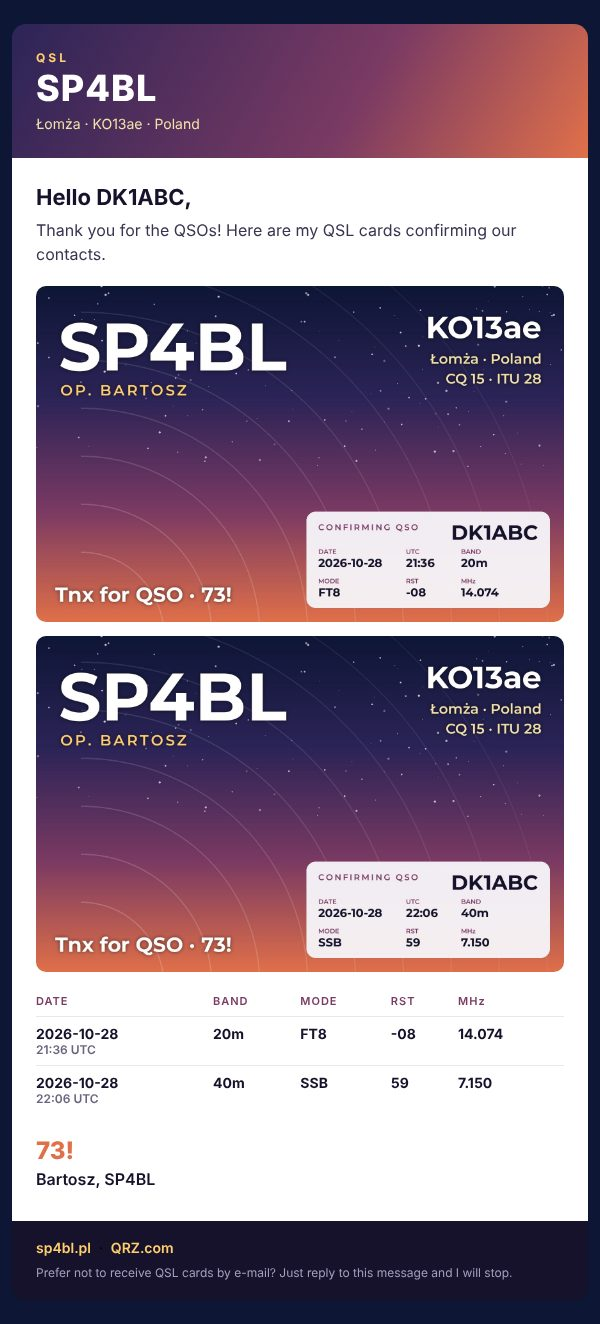
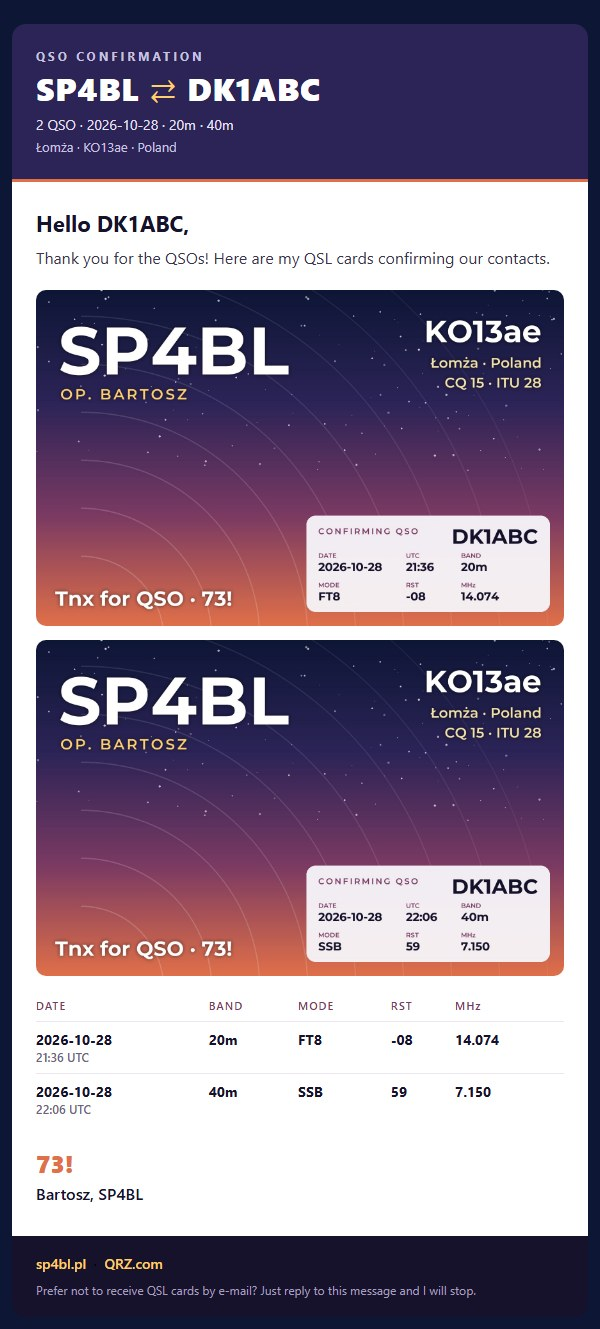
README: screenshots section with mails and card themes; regenerate mail preview

diff --git a/README.md b/README.md
@@ -34,6 +34,25 @@ so Wavelog updates do not affect it.
   - every QSO gets its card only once.
 - **Dry run** shows who would get which card, with previews of the cards and the mail, without sending anything.
 
+## Screenshots
+
+### Mails
+
+| Two QSOs, one mail (English) | One QSO (Polish) | Theme `ocean` (German) |
+|---|---|---|
+| ![Mail with two QSOs](docs/mail.jpg) | ![Mail in Polish](docs/mail-pl.jpg) | ![Mail with the ocean theme](docs/mail-ocean.jpg) |
+
+The header and the card follow the `theme` set in `[card]`. The mail is plain HTML with tables and
+inline styles, so it looks the same in Gmail, Outlook, Apple Mail and Thunderbird. The cards are
+embedded as JPG files, and a plain-text version goes along for clients without HTML
+(`html = false` sends only the plain text with the cards attached).
+
+### Card themes
+
+| `dusk` | `ocean` | `forest` |
+|---|---|---|
+| ![dusk](docs/card-dusk.jpg) | ![ocean](docs/card-ocean.jpg) | ![forest](docs/card-forest.jpg) |
+
 ## Requirements
 
 - Wavelog (Docker or a regular Linux / Raspberry Pi install)
